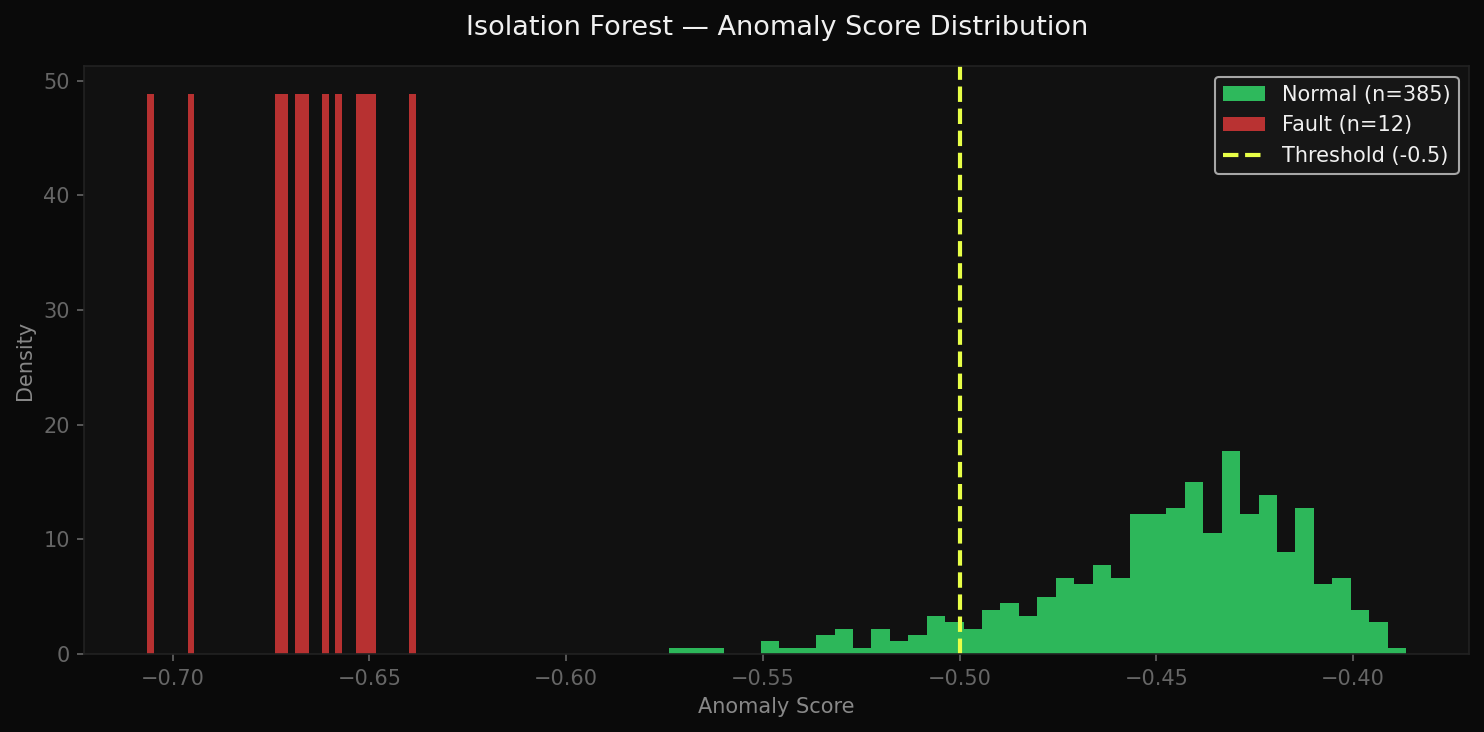
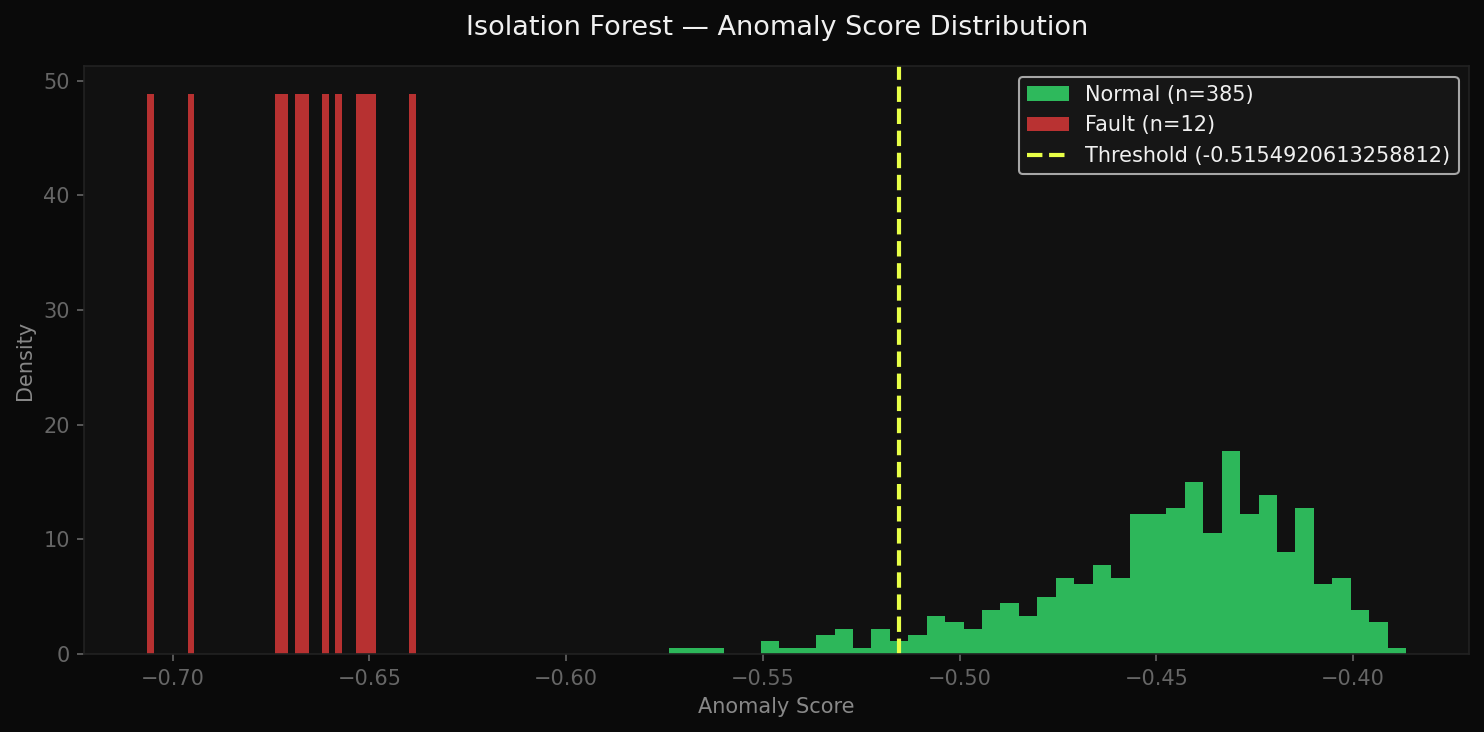
Auto-tune the anomaly threshold from contamination instead of a hardcoded cutoff
Previously CONTAMINATION=0.05 only ever influenced the model's internal
.predict() during training/evaluation — the threshold actually used for
severity/is_anomaly in inference.py (THRESHOLD=-0.50) was a separate,
hand-picked constant with no connection to it, shared globally across both
the AI4I and BLE models despite them scoring on different scales.

Now: train.py and train_bluetooth.py each compute their own threshold as
the CONTAMINATION-th percentile of their own normal-data training scores
(by construction, this reproduces the same "~5% of even normal data looks
borderline" assumption the model already uses internally) and save it
alongside the model as threshold.json / threshold_ble.json. inference.py
loads the correct one per model, falling back to -0.50 with a clear
warning for a model trained before this existed.

Verified: AI4I model's auto-tuned threshold came out to -0.5155 (not
coincidentally -0.50), and both the load-success and missing-file fallback
paths work correctly.

Changed region(s): [[0.6819, 0.0902, 0.9919, 0.2404]]

diff --git a/inference.py b/inference.py
@@ -44,7 +44,16 @@ RESULTS_PATH    = os.path.join(BASE_DIR, 'inference_results.csv')
 # these feature names and cannot meaningfully score them.
 BLE_MODEL_PATH  = os.path.join(BASE_DIR, 'model_ble.pkl')
 BLE_SCALER_PATH = os.path.join(BASE_DIR, 'scaler_ble.pkl')
-THRESHOLD       = -0.50
+# Auto-tuned by train.py/train_bluetooth.py from CONTAMINATION (the
+# percentile of normal-data scores that matches the model's own expected
+# anomaly rate) — see compute_threshold() in train.py. Each model gets its
+# own file since the AI4I and BLE models score on different scales; a
+# single hardcoded constant shared between them would be a coincidence,
+# not a calibration. DEFAULT_THRESHOLD is only a fallback for a model
+# trained before this existed.
+THRESHOLD_PATH     = os.path.join(BASE_DIR, 'threshold.json')
+BLE_THRESHOLD_PATH = os.path.join(BASE_DIR, 'threshold_ble.json')
+DEFAULT_THRESHOLD  = -0.50
 WINDOW_SIZE     = 50
 SIMULATE_DELAY  = 0.1       # seconds between simulated readings
 
@@ -82,6 +91,19 @@ def load_model():
         exit(1)
 
 
+def load_threshold(path, model_label):
+    try:
+        with open(path) as f:
+            value = float(json.load(f)['threshold'])
+        print(f"✓ Threshold loaded ← {path} ({value:.4f})\n")
+        return value
+    except (FileNotFoundError, KeyError, ValueError, TypeError):
+        print(f"⚠ {path} not found or unreadable — using fallback "
+              f"threshold {DEFAULT_THRESHOLD} for the {model_label} model.")
+        print(f"  Retrain to auto-tune this from the contamination rate.\n")
+        return DEFAULT_THRESHOLD
+
+
 def load_ble_model():
     """
     Load the BLE-specific model (trained on real accX/accY/accZ/temp data via
@@ -112,10 +134,10 @@ def connect_supabase():
 
 
 # ── SEVERITY ──────────────────────────────────────────────────────────────────
-def get_severity(score):
-    if score > THRESHOLD: return 'NORMAL'
-    if score > -0.52:     return 'LOW'
-    if score > -0.55:     return 'MEDIUM'
+def get_severity(score, threshold):
+    if score > threshold:        return 'NORMAL'
+    if score > threshold - 0.02: return 'LOW'
+    if score > threshold - 0.05: return 'MEDIUM'
     return 'HIGH'
 
 
@@ -156,7 +178,7 @@ def log_to_supabase(client, result, window_df, source):
 
 
 # ── SCORE A WINDOW ────────────────────────────────────────────────────────────
-def score_window(model, scaler, window_df, fs=1.0):
+def score_window(model, scaler, window_df, threshold, fs=1.0):
     features   = extract_features(window_df, fs=fs)
     feature_df = pd.DataFrame([features]).fillna(0)
 
@@ -193,14 +215,14 @@ def score_window(model, scaler, window_df, fs=1.0):
     scaled = scaler.transform(feature_df)
 
     score    = model.score_samples(scaled)[0]
-    severity = get_severity(score)
+    severity = get_severity(score, threshold)
     return {
         'score'     : round(float(score), 4),
         'severity'  : severity,
-        # bool(), not the bare numpy.bool_ that `score < THRESHOLD` produces —
+        # bool(), not the bare numpy.bool_ that `score < threshold` produces —
         # numpy.bool_ isn't JSON-serializable, which silently broke every
         # Supabase insert once is_anomaly was added to the logged record.
-        'is_anomaly': bool(score < THRESHOLD),
+        'is_anomaly': bool(score < threshold),
         'timestamp' : datetime.now().isoformat()
     }
 
@@ -241,6 +263,8 @@ def run_simulation(model, scaler, supabase):
     print(f"\n  {'Timestamp':<12} {'Score':>8}  {'Severity':<8}  Status")
     print(f"  {'-'*12} {'-'*8}  {'-'*8}  {'-'*20}")
 
+    threshold = load_threshold(THRESHOLD_PATH, 'AI4I')
+
     # Check dataset exists
     try:
         df = pd.read_csv(DATASET_PATH)
@@ -273,7 +297,7 @@ def run_simulation(model, scaler, supabase):
 
             buffer    = buffer[-WINDOW_SIZE:]
             window_df = pd.DataFrame(buffer)[feature_cols]
-            result    = score_window(model, scaler, window_df)
+            result    = score_window(model, scaler, window_df, threshold)
             result['actual_failure'] = buffer[-1]['actual_failure']
             results.append(result)
             window_count += 1
@@ -329,6 +353,8 @@ async def run_bluetooth(ai4i_model, ai4i_scaler, supabase):
         run_simulation(ai4i_model, ai4i_scaler, supabase)
         return
 
+    ble_threshold = load_threshold(BLE_THRESHOLD_PATH, 'BLE')
+
     buffer       = []
     feature_cols = ['accX', 'accY', 'accZ', 'temp']
 
@@ -375,7 +401,7 @@ async def run_bluetooth(ai4i_model, ai4i_scaler, supabase):
                 if len(buffer) >= WINDOW_SIZE:
                     buffer    = buffer[-WINDOW_SIZE:]
                     window_df = pd.DataFrame(buffer)[feature_cols]
-                    result    = score_window(ble_model, ble_scaler, window_df, fs=50.0)
+                    result    = score_window(ble_model, ble_scaler, window_df, ble_threshold, fs=50.0)
 
                     print_result(result)
 

diff --git a/train.py b/train.py
@@ -15,6 +15,7 @@
 #   6. Saves model.pkl and scaler.pkl
 
 import os
+import json
 import joblib
 import numpy as np
 import pandas as pd
@@ -27,6 +28,7 @@ from preprocessor import process_dataframe, normalise
 DATASET_PATH  = 'ai4i2020.csv'       # must be in same folder as this script
 MODEL_PATH    = 'model.pkl'           # where the trained model gets saved
 SCALER_PATH   = 'scaler.pkl'          # where the scaler gets saved
+THRESHOLD_PATH = 'threshold.json'     # auto-tuned anomaly threshold (see save_model)
 WINDOW_SIZE   = 50                    # rows per feature window
 STEP          = 25                    # window slide step (50% overlap)
 CONTAMINATION = 0.05                  # expected % of anomalies (5%)
@@ -170,6 +172,20 @@ def evaluate_model(model, X_normal_scaled, X_fault_scaled):
     return scores_normal, None
 
 
+def compute_threshold(scores_normal):
+    """
+    Derive the anomaly-score cutoff from CONTAMINATION instead of hand-picking
+    a number. score_samples() returns a continuous score per window (lower =
+    more anomalous); the CONTAMINATION-th percentile of the NORMAL training
+    scores is, by definition, the cutoff below which ~CONTAMINATION fraction
+    of normal data itself falls — i.e. it reproduces the same "expected ~5%
+    of even normal operation looks borderline" assumption already baked into
+    the model's own contamination parameter, rather than a threshold chosen
+    by eyeballing the score distribution plot.
+    """
+    return float(np.percentile(scores_normal, CONTAMINATION * 100))
+
+
 def plot_results(scores_normal, scores_fault, threshold=-0.50):
     """Plot anomaly score distributions so you can visualise the model."""
     print("── Generating score distribution plot ───────────────")
@@ -206,13 +222,17 @@ def plot_results(scores_normal, scores_fault, threshold=-0.50):
     print("  ✓ Plot saved as score_distribution.png\n")
 
 
-def save_model(model, scaler):
-    """Save the trained model and scaler to disk."""
+def save_model(model, scaler, threshold):
+    """Save the trained model, scaler, and auto-tuned threshold to disk."""
     print("── Saving model files ───────────────────────────────")
     joblib.dump(model, MODEL_PATH)
     joblib.dump(scaler, SCALER_PATH)
-    print(f"  ✓ Model  saved → {MODEL_PATH}")
-    print(f"  ✓ Scaler saved → {SCALER_PATH}")
+    with open(THRESHOLD_PATH, 'w') as f:
+        json.dump({'threshold': threshold, 'contamination': CONTAMINATION}, f, indent=2)
+    print(f"  ✓ Model     saved → {MODEL_PATH}")
+    print(f"  ✓ Scaler    saved → {SCALER_PATH}")
+    print(f"  ✓ Threshold saved → {THRESHOLD_PATH} "
+          f"({threshold:.4f}, auto-tuned from {CONTAMINATION*100:.0f}% contamination)")
     print()
 
 
@@ -245,12 +265,15 @@ if __name__ == '__main__':
     
     # Step 4 — Evaluate
     scores_normal, scores_fault = evaluate_model(model, X_normal_scaled, X_fault_scaled)
-    
-    # Step 5 — Plot results
-    plot_results(scores_normal, scores_fault)
-    
-    # Step 6 — Save model and scaler
-    save_model(model, scaler)
+
+    # Step 5 — Auto-tune the anomaly threshold from the contamination rate
+    threshold = compute_threshold(scores_normal)
+
+    # Step 6 — Plot results
+    plot_results(scores_normal, scores_fault, threshold=threshold)
+
+    # Step 7 — Save model, scaler, and threshold
+    save_model(model, scaler, threshold)
     
     # Step 7 — Summary
     print_summary()

diff --git a/train_bluetooth.py b/train_bluetooth.py
@@ -19,6 +19,7 @@
 #        python train_bluetooth.py
 
 import os
+import json
 import joblib
 import numpy as np
 import pandas as pd
@@ -27,10 +28,11 @@ from sklearn.ensemble import IsolationForest
 from preprocessor import process_dataframe, normalise
 
 # ── SETTINGS ──────────────────────────────────────────────────────────────────
-BASE_DIR      = os.path.dirname(os.path.abspath(__file__))
-DATASET_PATH  = os.path.join(BASE_DIR, 'ble_baseline_normal.csv')
-MODEL_PATH    = os.path.join(BASE_DIR, 'model_ble.pkl')
-SCALER_PATH   = os.path.join(BASE_DIR, 'scaler_ble.pkl')
+BASE_DIR       = os.path.dirname(os.path.abspath(__file__))
+DATASET_PATH   = os.path.join(BASE_DIR, 'ble_baseline_normal.csv')
+MODEL_PATH     = os.path.join(BASE_DIR, 'model_ble.pkl')
+SCALER_PATH    = os.path.join(BASE_DIR, 'scaler_ble.pkl')
+THRESHOLD_PATH = os.path.join(BASE_DIR, 'threshold_ble.json')
 FEATURE_COLS  = ['accX', 'accY', 'accZ', 'temp']
 WINDOW_SIZE   = 50       # must match WINDOW_SIZE in inference.py
 STEP          = 25       # 50% overlap
@@ -128,19 +130,27 @@ def plot_scores(scores):
     print("  ✓ Plot saved as score_distribution_ble.png\n")
 
 
-def save_model(model, scaler):
+def save_model(model, scaler, threshold):
     print("── Saving BLE model files ───────────────────────────")
     joblib.dump(model, MODEL_PATH)
     joblib.dump(scaler, SCALER_PATH)
-    print(f"  ✓ Model  saved → {MODEL_PATH}")
-    print(f"  ✓ Scaler saved → {SCALER_PATH}\n")
+    with open(THRESHOLD_PATH, 'w') as f:
+        json.dump({'threshold': threshold, 'contamination': CONTAMINATION}, f, indent=2)
+    print(f"  ✓ Model     saved → {MODEL_PATH}")
+    print(f"  ✓ Scaler    saved → {SCALER_PATH}")
+    print(f"  ✓ Threshold saved → {THRESHOLD_PATH} "
+          f"({threshold:.4f}, auto-tuned from {CONTAMINATION*100:.0f}% contamination)\n")
 
 
 if __name__ == '__main__':
     df = load_baseline(DATASET_PATH)
     model, scaler, scores = train_and_evaluate(df)
+    # Same derivation as train.py's compute_threshold(): the CONTAMINATION-th
+    # percentile of the normal baseline's own scores, so this model gets its
+    # own correctly-calibrated cutoff instead of inheriting the AI4I model's.
+    threshold = float(np.percentile(scores, CONTAMINATION * 100))
     plot_scores(scores)
-    save_model(model, scaler)
+    save_model(model, scaler, threshold)
 
     print("=" * 55)
     print("  BLE TRAINING COMPLETE")
